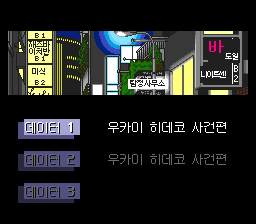
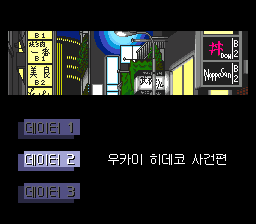
Restore original Japanese load-screen street artwork

diff --git a/README.md b/README.md
@@ -12,11 +12,15 @@
 
 ## 현재 화면
 
-아래 화면은 모두 현재 결과 ROM에서 직접 촬영했습니다.
+불러오기 화면 두 장은 거리 배경을 복원한 현재 ROM에서 촬영했습니다. 나머지 화면은 복원 전 빌드에서 촬영했으며, 이번 변경은 거리 배경 자료와 체크섬에만 적용됩니다.
 
-| 타이틀 | 불러오기 |
+| 타이틀 | 불러오기 (일본판 거리 배경) |
 |---|---|
 | ![타이틀](screenshots/title.png) | ![불러오기](screenshots/load-screen.png) |
+
+| 리셋 후 불러오기 선택창 |
+|---|
+| ![리셋 후 불러오기 선택창](screenshots/load-popup.png) |
 
 | 물음표·느낌표 | 쉼표 |
 |---|---|
@@ -25,6 +29,11 @@
 | 소리 설정 | 보고된 방 장면의 대사 위치 |
 |---|---|
 | ![소리 설정](screenshots/sound-popup.png) | ![대사 위치](screenshots/akiko-position.png) |
+
+## 2026-10-04 거리 배경 복원
+
+- 불러오기 화면의 거리 배경과 간판을 일본판 원본 그림으로 복원했습니다. 한글 데이터 슬롯과 선택창은 유지됩니다.
+- 리셋 후 DATA 2에서 A/X로 선택창을 연 경로를 각각 확인했고, 거리 그림 39프레임씩이 일본판과 픽셀 단위로 일치했습니다. 다른 저장 파일과 에뮬레이터는 아직 검증하지 못했습니다.
 
 ## 2026-09-27 수정
 
@@ -47,8 +56,8 @@
 | 파일 | 크기 | SHA-256 |
 |---|---:|---|
[5 lines of base64/hex data omitted]
 
 같은 V0.2 이름의 이전 파일과 구분할 때 위 해시를 확인해 주세요.
 
@@ -60,6 +69,7 @@
 - 최종 번역 필드 4,853개 안의 실제 FE/FD 순서 일치: FE 273개, FD 16개
 - 보존한 장면 명령 298곳이 원본 바이트와 일치
 - 현재 빌드에서 A/X 메뉴의 콜드 부팅 및 리셋 후 화면 확인
+- DATA 2 리셋 후 A/X 경로에서 거리 배경이 일본판과 각 39프레임 일치
 - down3 경로 18,000프레임 내의 보고된 방 장면과 기호 사용 장면 확인
 - 아키코 방의 같은 어두운 장면을 일본판과 비교해 그림 영역 일치 확인
 

diff --git a/CHANGELOG.md b/CHANGELOG.md
@@ -1,5 +1,11 @@
 # 변경 기록
 
+## V0.2 거리 배경 복원 — 2026-10-04
+
+- 불러오기 화면의 거리 배경과 간판을 일본판 원본 그림으로 복원
+- 한글 데이터 슬롯과 선택창은 유지하고, 리셋 후 A/X 선택창 경로의 배경을 일본판과 비교
+- 배포 IPS, 스크린샷, 해시와 검증 기록 갱신
+
 ## V0.2 수정 빌드 — 2026-09-27
 
 - 물음표·느낌표·쉼표를 대사 글꼴과 맞춘 신규 비트맵으로 교체
